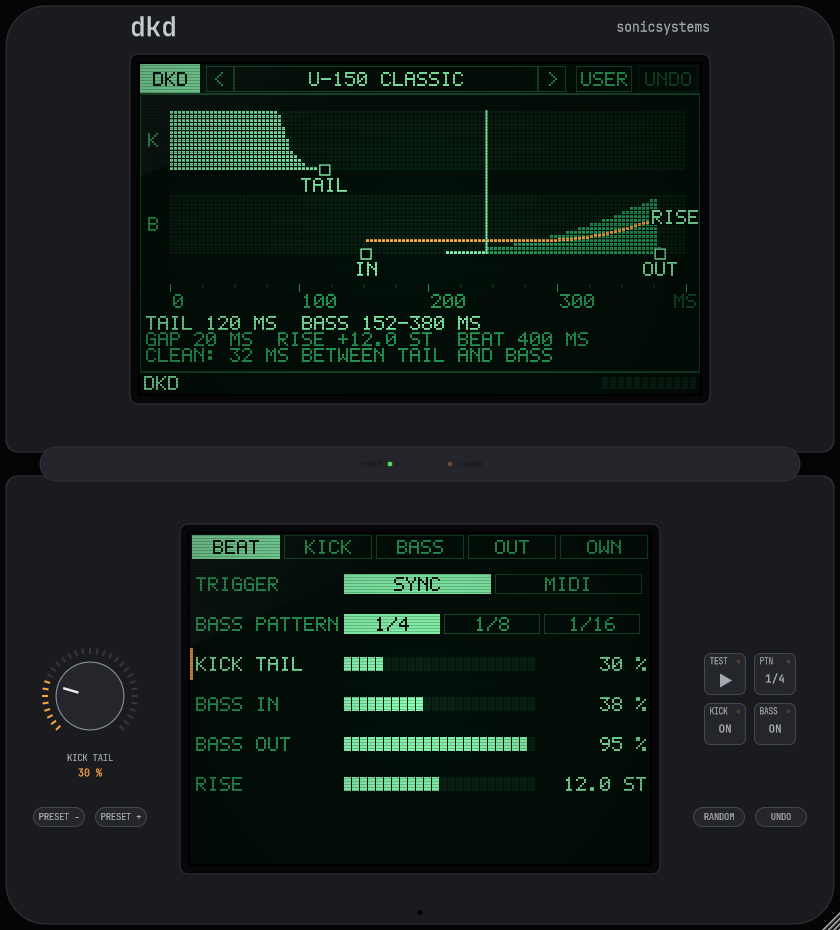
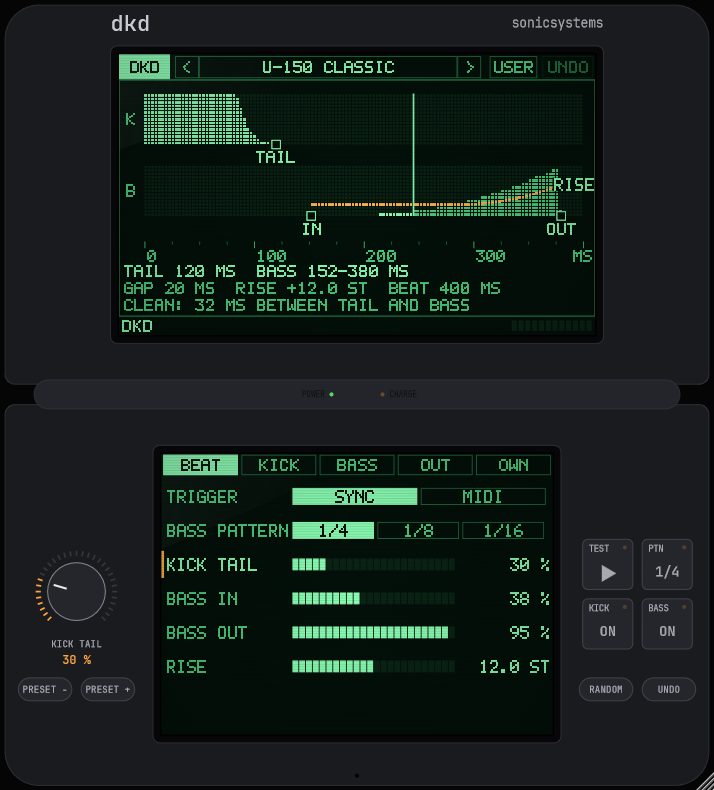
dkd: bigger pads and keys, clearer screen text, opens at 85 %

diff --git a/src/DKD_kod_zrodlowy/dkd/Source/PluginEditor.cpp b/src/DKD_kod_zrodlowy/dkd/Source/PluginEditor.cpp
@@ -80,9 +80,9 @@ namespace ds
         p.closeSubPath();
         g.setGradientFill (ColourGradient (Colours::white.withAlpha (0.05f), 0.0f, 0.0f, Colours::transparentWhite, (float) w * 0.35f, (float) h * 0.22f, false));
         g.fillPath (p);
-        g.setGradientFill (ColourGradient (Colours::transparentBlack, (float) w * 0.5f, (float) h * 0.5f, Colours::black.withAlpha (0.32f), 0.0f, 0.0f, true));
+        g.setGradientFill (ColourGradient (Colours::transparentBlack, (float) w * 0.5f, (float) h * 0.5f, Colours::black.withAlpha (0.18f), 0.0f, 0.0f, true));
         g.fillRect (0, 0, w, h);
-        g.setColour (Colours::black.withAlpha (0.2f));
+        g.setColour (Colours::black.withAlpha (0.1f));
         for (int y = 1; y < h; y += 3) g.fillRect (0, y, w, 1);
         return img;
     }
@@ -103,21 +103,21 @@ void DsButton::paint (Graphics& g)
             g.drawRoundedRectangle (r, 6.0f, 1.0f);
             const bool active = playIcon ? down : on;
             g.setColour (active ? ds::ledAmber : ds::ledAmber.withAlpha (0.2f));
-            g.fillEllipse (r.getRight() - 9.0f, r.getY() + 6.0f, 4.0f, 4.0f);
+            g.fillEllipse (r.getRight() - 12.0f, r.getY() + 7.0f, 5.0f, 5.0f);
             g.setColour (txtCol (false));
-            g.setFont (Fiss::mono (7.5f, Fiss::Weight::regular));
-            g.drawText (face, Rectangle<float> (r.getX() + 5.0f, r.getY() + 3.0f, r.getWidth() - 14.0f, 10.0f), Justification::centredLeft, false);
+            g.setFont (Fiss::mono (10.0f, Fiss::Weight::semibold));
+            g.drawText (face, Rectangle<float> (r.getX() + 7.0f, r.getY() + 4.0f, r.getWidth() - 20.0f, 14.0f), Justification::centredLeft, false);
             if (playIcon)
             {
-                Path tri; tri.addTriangle (-5.0f, -7.0f, -5.0f, 7.0f, 7.0f, 0.0f);
+                Path tri; tri.addTriangle (-7.0f, -10.0f, -7.0f, 10.0f, 10.0f, 0.0f);
                 g.setColour (txtCol (down));
-                g.fillPath (tri, AffineTransform::translation (r.getCentreX(), r.getBottom() - 14.0f));
+                g.fillPath (tri, AffineTransform::translation (r.getCentreX(), r.getBottom() - 19.0f));
             }
             else if (caption)
             {
                 g.setColour (txtCol (on));
-                g.setFont (Fiss::mono (11.0f, Fiss::Weight::semibold));
-                g.drawText (caption(), Rectangle<float> (r.getX(), r.getBottom() - 24.0f, r.getWidth(), 16.0f), Justification::centred, false);
+                g.setFont (Fiss::mono (16.0f, Fiss::Weight::semibold));
+                g.drawText (caption(), Rectangle<float> (r.getX(), r.getBottom() - 32.0f, r.getWidth(), 22.0f), Justification::centred, false);
             }
             break;
         }
@@ -128,7 +128,7 @@ void DsButton::paint (Graphics& g)
             g.setColour (over ? ds::steelMid : ds::keyRim);
             g.drawRoundedRectangle (r, r.getHeight() * 0.5f, 1.0f);
             g.setColour (txtCol (false));
-            g.setFont (Fiss::mono (8.5f, Fiss::Weight::regular));
+            g.setFont (Fiss::mono (11.0f, Fiss::Weight::semibold));
             g.drawText (face, r, Justification::centred, false);
             break;
         }
@@ -176,11 +176,11 @@ void DsWheel::paint (Graphics& g)
     if (q != nullptr)   // what it edits
     {
         g.setColour (ds::print);
-        g.setFont (Fiss::mono (8.5f, Fiss::Weight::regular));
-        g.drawText (Digi::fit (q->getName (32).toUpperCase(), 18), Rectangle<float> (0.0f, 108.0f, (float) getWidth(), 12.0f), Justification::centred, false);
+        g.setFont (Fiss::mono (11.0f, Fiss::Weight::semibold));
+        g.drawText (Digi::fit (q->getName (32).toUpperCase(), 16), Rectangle<float> (0.0f, 106.0f, (float) getWidth(), 15.0f), Justification::centred, false);
         g.setColour (ds::ledAmber);
-        g.setFont (Fiss::mono (10.0f, Fiss::Weight::semibold));
-        g.drawText (Digi::fit (Digi::shortValue (q->getCurrentValueAsText()), 14), Rectangle<float> (0.0f, 122.0f, (float) getWidth(), 14.0f), Justification::centred, false);
+        g.setFont (Fiss::mono (14.0f, Fiss::Weight::semibold));
+        g.drawText (Digi::fit (Digi::shortValue (q->getCurrentValueAsText()), 12), Rectangle<float> (0.0f, 123.0f, (float) getWidth(), 18.0f), Justification::centred, false);
     }
 }
 
@@ -362,7 +362,7 @@ void DsBody::paint (Graphics& g)
     ds::ledDot (g, { W * 0.5f - 30.0f, hy }, ds::ledGreen, true);
     ds::ledDot (g, { W * 0.5f + 30.0f, hy }, ds::ledAmber, false);
     g.setColour (Colours::black.withAlpha (0.6f));
-    g.setFont (Fiss::mono (7.0f, Fiss::Weight::regular));
+    g.setFont (Fiss::mono (9.0f, Fiss::Weight::regular));
     g.drawText ("POWER", Rectangle<float> (W * 0.5f - 86.0f, hy - 5.0f, 48.0f, 10.0f), Justification::centredRight, false);
     g.drawText ("CHARGE", Rectangle<float> (W * 0.5f + 38.0f, hy - 5.0f, 50.0f, 10.0f), Justification::centredLeft, false);
 
@@ -375,7 +375,7 @@ void DsBody::paint (Graphics& g)
     g.setFont (Fiss::mono (26.0f, Fiss::Weight::semibold));
     g.drawText (Branding::displayName, Rectangle<float> (lcd.getX(), 10.0f, 200.0f, 34.0f), Justification::centredLeft, false);
     g.setColour (ds::print);
-    g.setFont (Fiss::mono (13.0f, Fiss::Weight::regular));
+    g.setFont (Fiss::mono (15.0f, Fiss::Weight::regular));
     g.drawText (Branding::companyName, Rectangle<float> (lcd.getRight() - 240.0f, 10.0f, 240.0f, 34.0f), Justification::centredRight, false);
 
     // microphone
@@ -412,15 +412,15 @@ void DsBody::resized()
     // hardware, either side of the touch screen (all >= 36 px hit targets at 100 %)
     const int lx = 90, rx = W - 90, cy = 699;
     wheel.setBounds (lx - 55, cy - 55, 110, 140);
-    const int pad = 44, off = 25;
+    const int pad = 62, off = 35;
     padTest   ->setBounds (rx - off - pad / 2, cy - off - pad / 2, pad, pad);
     padPattern->setBounds (rx + off - pad / 2, cy - off - pad / 2, pad, pad);
     padKick   ->setBounds (rx - off - pad / 2, cy + off - pad / 2, pad, pad);
     padBass   ->setBounds (rx + off - pad / 2, cy + off - pad / 2, pad, pad);
-    prevKey  ->setBounds (lx - 58, 806, 54, 22);
-    nextKey  ->setBounds (lx + 4, 806, 54, 22);
-    randomKey->setBounds (rx - 58, 806, 54, 22);
-    undoKey  ->setBounds (rx + 4, 806, 54, 22);
+    prevKey  ->setBounds (lx - 70, 796, 66, 30);
+    nextKey  ->setBounds (lx + 4, 796, 66, 30);
+    randomKey->setBounds (rx - 70, 796, 66, 30);
+    undoKey  ->setBounds (rx + 4, 796, 66, 30);
 }
 
 // ======================================================================= editor
@@ -480,9 +480,9 @@ DsLiteEditor::DsLiteEditor (RutherfordProcessor& p)
     double startScale = (double) proc.apvts.state.getProperty ("uiScale", 0.0);
     if (! (startScale > 0.0))
     {
-        startScale = 1.0;
+        startScale = 0.85;
         if (auto* d = Desktop::getInstance().getDisplays().getPrimaryDisplay())
-            startScale = jmin (1.0, (d->userArea.getHeight() - 90) / (double) DsBody::H, (d->userArea.getWidth() - 40) / (double) DsBody::W);
+            startScale = jmin (0.85, (d->userArea.getHeight() - 90) / (double) DsBody::H, (d->userArea.getWidth() - 40) / (double) DsBody::W);
     }
     startScale = jlimit (0.6, 1.5, startScale);
     setResizable (true, true);

diff --git a/src/DKD_kod_zrodlowy/dkd/Source/Digi.cpp b/src/DKD_kod_zrodlowy/dkd/Source/Digi.cpp
@@ -81,7 +81,7 @@ void text (Graphics& g, const String& s, int x, int y, int scale, Colour c)
         for (int row = 0; row < 7; ++row)
             for (int col = 0; col < 5; ++col)
                 if (r[row] & (0x10 >> col))
-                    rl.addWithoutMerging (Rectangle<float> (px + (float) col * sc, (float) y + (float) row * sc, sc, sc));
+                    rl.addWithoutMerging (Rectangle<float> (px + (float) col * sc, (float) y + (float) row * sc, sc + 0.35f, sc + 0.35f));
         px += (float) advance * sc;
     }
     g.setColour (c);
@@ -480,7 +480,7 @@ void PlotView::paint (Graphics& g)
     }
     for (int i = 0; i < 4; ++i)
         text (g, String (roundToInt ((double) i * 0.25 * beatMs)), (int) xAt ((float) i * 0.25f) + 3, 200, 2, Col::mid);
-    textRight (g, "MS", getWidth() - 4, 200, 2, Col::dim);
+    textRight (g, "MS", getWidth() - 4, 200, 2, Col::mid);
 
     // handles with their names
     const auto hs = handles();
@@ -507,15 +507,15 @@ void PlotView::paint (Graphics& g)
     // numbers
     const double gap = (1.0 - prm.bassEnd) / steps * beatMs;
     text (g, "TAIL " + String (roundToInt (prm.tail * beatMs)) + " MS  BASS " + String (roundToInt (prm.bassStart / steps * beatMs)) + "-"
-                 + String (roundToInt (prm.bassEnd / steps * beatMs)) + " MS", 6, 222, 2, Col::hi);
+                 + String (roundToInt (prm.bassEnd / steps * beatMs)) + " MS", 6, 218, 2, Col::hi);
     text (g, "GAP " + String (roundToInt (gap)) + " MS  RISE +" + String (prm.riseSt, 1) + " ST  BEAT " + String (roundToInt (beatMs)) + " MS", 6, 238, 2, Col::mid);
     if (overlap > 0.0f)
     {
         if (frozen || (Time::getMillisecondCounterHiRes() / 400.0 - std::floor (Time::getMillisecondCounterHiRes() / 400.0)) < 0.7)
-            text (g, "!! OVERLAP " + String (roundToInt (overlap * beatMs)) + " MS = MUD", 6, 254, 2, Col::warn);
+            text (g, "!! OVERLAP " + String (roundToInt (overlap * beatMs)) + " MS = MUD", 6, 258, 2, Col::warn);
     }
     else
-        text (g, "CLEAN: " + String (roundToInt (-overlap * beatMs)) + " MS BETWEEN TAIL AND BASS", 6, 254, 2, Col::mid);
+        text (g, "CLEAN: " + String (roundToInt (-overlap * beatMs)) + " MS BETWEEN TAIL AND BASS", 6, 258, 2, Col::mid);
     g.setColour (Col::dim);
     g.drawRect (getLocalBounds(), 1);
 }
@@ -535,7 +535,7 @@ void SliderRow::paint (Graphics& g)
     {
         const bool on = zn >= 0.0f ? (i >= jmin (lit, zi) && i < jmax (lit, zi)) : i < lit;
         g.setColour (on ? Col::hi : (zn >= 0.0f && i == zi ? Col::dim : Col::grid));
-        g.fillRect (barL + i * 8, ty, 7, 14);
+        g.fillRect (Rectangle<float> ((float) (barL + i * 8), (float) ty, 7.0f, 14.0f));
     }
     textRight (g, fit (shortValue (valueText()), 9), getWidth() - 4, ty, 2, Col::hi);
     if (session.isLocked (param.paramID)) { g.setColour (Col::warn); g.fillRect (getWidth() - 7, 2, 5, 5); }

diff --git a/src/DKD_kod_zrodlowy/dkd/Tools/RenderDemo.cpp b/src/DKD_kod_zrodlowy/dkd/Tools/RenderDemo.cpp
@@ -259,6 +259,15 @@ int main (int argc, char** argv)
         PNGImageFormat png;
         if (! png.writeImageToStream (img, os)) { std::printf ("ERROR: png\n"); return 3; }
         std::printf ("GUI screenshot: %s (%dx%d)\n", pf.getFullPathName().toRawUTF8(), img.getWidth(), img.getHeight());
+        {   // and at 85 %, the size the plugin opens with
+            ed->setSize (roundToInt (img.getWidth() * 0.85), roundToInt (img.getHeight() * 0.85));
+            auto simg = ed->createComponentSnapshot (ed->getLocalBounds(), true, 1.0f);
+            File sp = File::getCurrentWorkingDirectory().getChildFile (pngPath.upToLastOccurrenceOf (".", false, false) + "-small.png");
+            sp.deleteFile();
+            FileOutputStream sos (sp);
+            png.writeImageToStream (simg, sos);
+            ed->setSize (img.getWidth(), img.getHeight());
+        }
         if (auto* de = dynamic_cast<DsLiteEditor*> (ed.get()))   // the other touch-screen pages: name-page2.png ...
             for (int pg = 1; pg < 5; ++pg)
             {

diff --git a/src/DKD_kod_zrodlowy/dkd/Source/Digi.h b/src/DKD_kod_zrodlowy/dkd/Source/Digi.h
@@ -13,8 +13,8 @@ namespace Col
 {
     const juce::Colour bg   { 0xff03100a };
     const juce::Colour grid { 0xff0a2415 };   // unlit segments
-    const juce::Colour dim  { 0xff14502e };
-    const juce::Colour mid  { 0xff29a85e };
+    const juce::Colour dim  { 0xff1f6e40 };
+    const juce::Colour mid  { 0xff4ccf80 };
     const juce::Colour hi   { 0xff8bffb4 };
     const juce::Colour warn { 0xffffb347 };
 }
